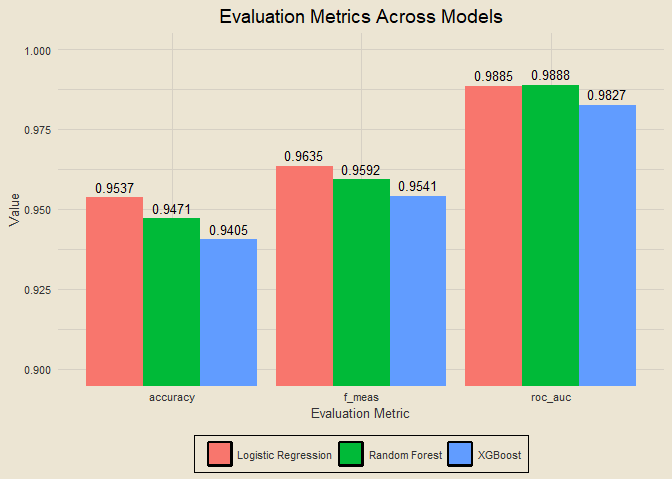
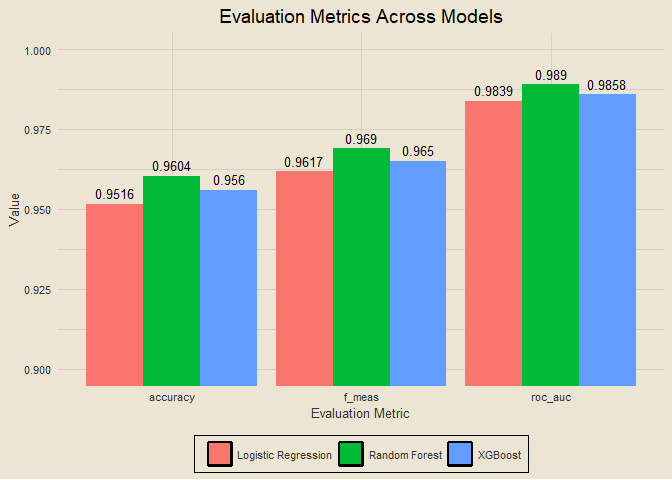
new commit

Changed region(s): [[0.125, 0.3125, 0.4062, 0.5], [0.4062, 0.2812, 0.6875, 0.4062], [0.6875, 0.125, 0.9688, 0.2188]]

diff --git a/README.md b/README.md
@@ -935,24 +935,24 @@ pre_rec |>
 </details>
 
     ## # A tibble: 10 × 18
-    ##         id texture_mean area_m…¹ smoot…² symme…³ fract…⁴ radiu…⁵ textu…⁶ smoot…⁷
-    ##      <dbl>        <dbl>    <dbl>   <dbl>   <dbl>   <dbl>   <dbl>   <dbl>   <dbl>
-    ##  1 8910748      -1.45    -0.758    0.141  -0.155 -0.0138 -0.774  -1.25   -0.190 
-    ##  2  884180       0.979    1.42     0.451   0.607 -0.396   0.430   1.06    1.19  
-    ##  3  881972      -0.0487   0.682    1.26    1.17   0.0641 -0.394  -0.975  -0.503 
-    ##  4  903507       0.158    0.255    1.40    0.428  0.658   0.872   0.207   0.0759
-    ##  5 9110732       2.03     0.928    0.257  -0.360 -0.515  -0.0558 -0.254  -0.775 
-    ##  6  855625       1.28     1.28    -0.395   1.82   0.0896  2.08    0.814  -0.164 
-    ##  7 8810703      -0.191    5.24     1.27   -0.597 -1.07    8.90    0.470   2.13  
-    ##  8  922577      -0.683   -0.938   -0.144   0.268 -0.112  -0.702  -0.453   0.0150
-    ##  9  858986       0.665   -0.0261   0.607   0.501  1.43    1.08    0.0927  0.788 
-    ## 10  863270      -0.174   -0.535   -0.824  -0.765 -0.303  -1.03   -0.585  -1.19  
+    ##          id texture_m…¹ area_…² smoot…³ symme…⁴ fract…⁵ radiu…⁶ textur…⁷ smoot…⁸
+    ##       <dbl>       <dbl>   <dbl>   <dbl>   <dbl>   <dbl>   <dbl>    <dbl>   <dbl>
+    ##  1 91762702       0.537  3.37    0.472   0.654   0.650    2.11  -0.574    -0.683
+    ##  2   919537      -0.388 -0.822   0.0362 -0.703   0.182   -0.918  0.664     0.819
+    ##  3   897630       0.498  1.24   -0.370   0.516  -0.279    0.855  0.568     0.169
+    ##  4   914862      -0.593  0.0981  0.176  -0.524   0.835   -0.120 -0.679    -0.972
+    ##  5 88649001       2.20   1.57   -0.267   0.297  -0.0676   1.58  -0.0324   -0.228
+    ##  6  8910506      -0.716 -0.405  -0.150   0.724  -0.723   -0.615  0.00389  -0.507
+    ##  7  8510824      -1.59  -1.08    0.429   0.0123  0.886   -0.461 -0.435     0.854
+    ##  8   857392      -0.137  1.07    1.31    1.02    0.0428   1.55   0.682    -1.05 
+    ##  9   919555       0.365  1.86    0.586   1.15   -0.0407   1.06  -0.411    -0.820
+    ## 10  8712729      -0.114  0.658  -0.548   0.297  -1.06     0.699  0.316    -0.306
     ## # … with 9 more variables: compactness_se <dbl>, concave_points_se <dbl>,
     ## #   symmetry_se <dbl>, fractal_dimension_se <dbl>, smoothness_worst <dbl>,
     ## #   compactness_worst <dbl>, symmetry_worst <dbl>,
     ## #   fractal_dimension_worst <dbl>, diagnosis <fct>, and abbreviated variable
-    ## #   names ¹area_mean, ²smoothness_mean, ³symmetry_mean,
-    ## #   ⁴fractal_dimension_mean, ⁵radius_se, ⁶texture_se, ⁷smoothness_se
+    ## #   names ¹texture_mean, ²area_mean, ³smoothness_mean, ⁴symmetry_mean,
+    ## #   ⁵fractal_dimension_mean, ⁶radius_se, ⁷texture_se, ⁸smoothness_se
 
 ### Building Cross Validation Folds
 
@@ -1038,9 +1038,9 @@ log_res |>
     ## # A tibble: 3 × 3
     ##   .metric   mean std_err
     ##   <chr>    <dbl>   <dbl>
-    ## 1 accuracy 0.954 0.0128 
-    ## 2 f_meas   0.963 0.0100 
-    ## 3 roc_auc  0.988 0.00568
+    ## 1 accuracy 0.952 0.0102 
+    ## 2 f_meas   0.962 0.00795
+    ## 3 roc_auc  0.984 0.00603
 
 ### Building Random Forest Specification and Workflow
 
@@ -1105,9 +1105,9 @@ rf_res |>
     ## # A tibble: 3 × 3
     ##   .metric   mean std_err
     ##   <chr>    <dbl>   <dbl>
-    ## 1 accuracy 0.947 0.0146 
-    ## 2 f_meas   0.959 0.0107 
-    ## 3 roc_auc  0.989 0.00492
+    ## 1 accuracy 0.960 0.00437
+    ## 2 f_meas   0.969 0.00337
+    ## 3 roc_auc  0.989 0.00506
 
 ### Building XGBoost Specification and Workflow
 
@@ -1169,9 +1169,9 @@ xgb_res |>
     ## # A tibble: 3 × 3
     ##   .metric   mean std_err
     ##   <chr>    <dbl>   <dbl>
-    ## 1 accuracy 0.940 0.0162 
-    ## 2 f_meas   0.954 0.0120 
-    ## 3 roc_auc  0.983 0.00644
+    ## 1 accuracy 0.956 0.00774
+    ## 2 f_meas   0.965 0.00620
+    ## 3 roc_auc  0.986 0.00732
 
 ### Comparing Model Results
 
@@ -1216,7 +1216,7 @@ three_mod_res |>
 ![](README_files/figure-gfm/unnamed-chunk-50-1.png)<!-- -->
 
 After this initial modeling step, we have achieved an accuracy of
-95.37%, an F1 score of 96.35%, and an AUC value of 98.85% with a
+95.16%, an F1 score of 96.17%, and an AUC value of 98.39% with a
 logistic regression model. We have achieved similar results with our
 random forest and XGBoost models as well, and will now tune the
 hyperparameters for those models to see if we can improve upon our
@@ -1241,16 +1241,54 @@ tune_res = tune_grid(tune_wf, resamples = cv_folds, grid = 25)
 
 ``` r
 tune_res |>
-  collect_metrics() |>
-  group_by(.metric) |>
-  slice_max(mean, n = 5) |>
-  ungroup() |>
-  transmute(min_n_mtry = paste0(min_n, "/", mtry), .metric, mean) |>
-  ggplot(aes(min_n_mtry, mean)) +
-  geom_col(aes(fill = .metric), position = "dodge")
+  show_best("roc_auc")
 ```
 
-![](README_files/figure-gfm/unnamed-chunk-51-1.png)<!-- -->
+    ## # A tibble: 5 × 8
+    ##    mtry min_n .metric .estimator  mean     n std_err .config              
+    ##   <int> <int> <chr>   <chr>      <dbl> <int>   <dbl> <chr>                
+    ## 1     2     7 roc_auc binary     0.992     5 0.00473 Preprocessor1_Model01
+    ## 2     2     6 roc_auc binary     0.992     5 0.00445 Preprocessor1_Model16
+    ## 3     2    11 roc_auc binary     0.990     5 0.00515 Preprocessor1_Model02
+    ## 4     3    31 roc_auc binary     0.988     5 0.00524 Preprocessor1_Model08
+    ## 5     7     3 roc_auc binary     0.988     5 0.00493 Preprocessor1_Model03
+
+### XGBoost Tuning
+
+``` r
+xgb_spec = boost_tree(trees = 1000, tree_depth = tune(), min_n = tune(),
+                      loss_reduction = tune(), sample_size = tune(),
+                      mtry = tune(), learn_rate = tune()) |>
+  set_engine("xgboost") |>
+  set_mode("classification")
+
+xgb_grid = grid_latin_hypercube(tree_depth(), min_n(), loss_reduction(),
+                                sample_size = sample_prop(), finalize(mtry(), train_data),
+                                learn_rate(), size = 30)
+
+xgb_wf = workflow() |>
+  add_recipe(pre_rec) |>
+  add_model(xgb_spec)
+
+doParallel::registerDoParallel()
+xgb_res = tune_grid(xgb_wf, resamples = cv_folds, grid = xgb_grid, control = control_grid(save_pred = T))
+
+xgb_res |>
+  show_best("roc_auc")
+```
+
+    ## # A tibble: 5 × 12
+    ##    mtry min_n tree_depth learn_rate loss_r…¹ sampl…² .metric .esti…³  mean     n
+    ##   <int> <int>      <int>      <dbl>    <dbl>   <dbl> <chr>   <chr>   <dbl> <int>
+    ## 1     6    11         13    2.37e-3 5.77e+ 0   0.706 roc_auc binary  0.980     5
+    ## 2    18    18         14    5.95e-3 3.93e-10   0.832 roc_auc binary  0.977     5
+    ## 3    12     4         10    7.01e-3 2.27e- 8   0.151 roc_auc binary  0.975     5
+    ## 4     1    23          3    4.47e-2 7.02e- 8   0.906 roc_auc binary  0.973     5
+    ## 5    11     5          7    1.39e-9 5.01e- 7   0.505 roc_auc binary  0.972     5
+    ## # … with 2 more variables: std_err <dbl>, .config <chr>, and abbreviated
+    ## #   variable names ¹loss_reduction, ²sample_size, ³.estimator
+
+*to be continued :)*
 
 ### Script Runtime
 
@@ -1258,4 +1296,4 @@ tune_res |>
 tictoc::toc()
 ```
 
-    ## 57.86 sec elapsed
+    ## 135.72 sec elapsed
